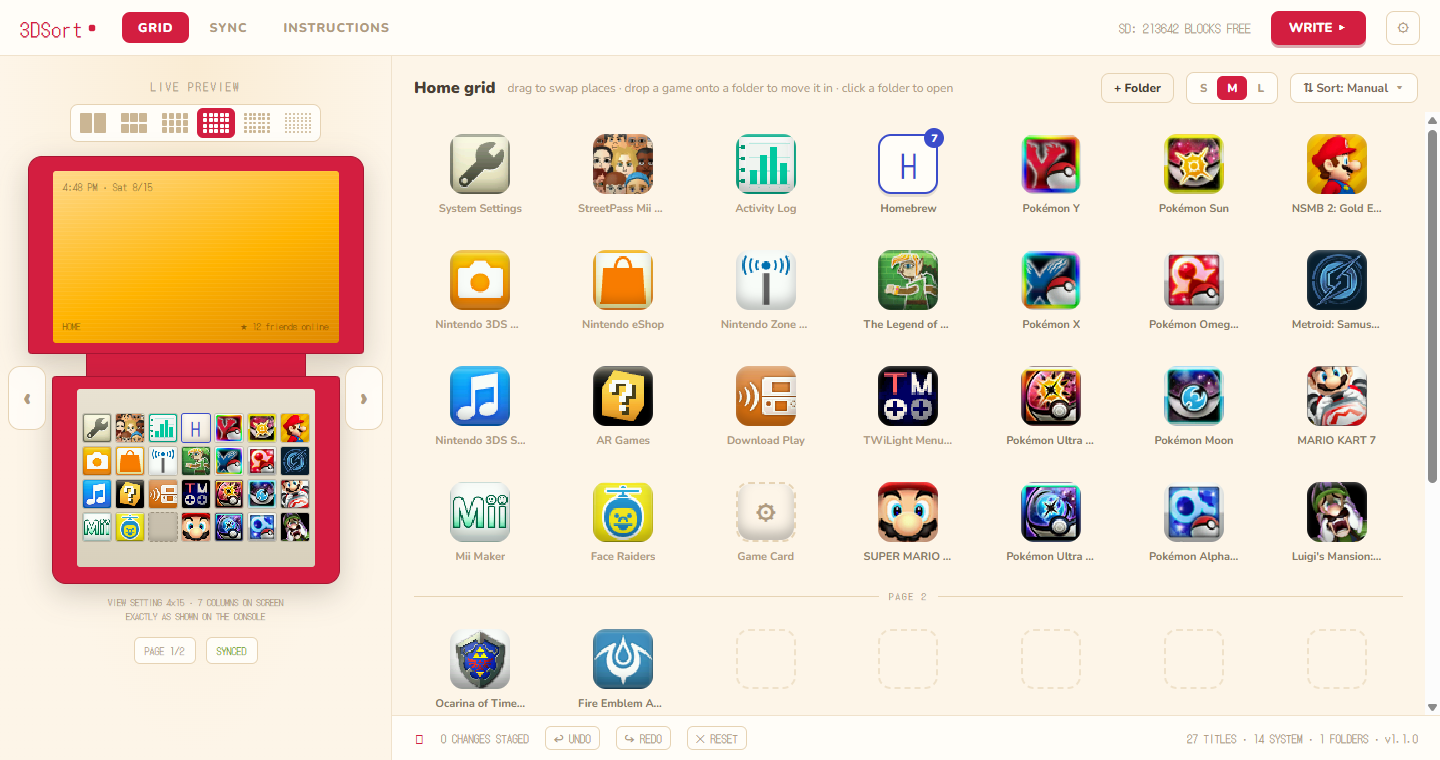
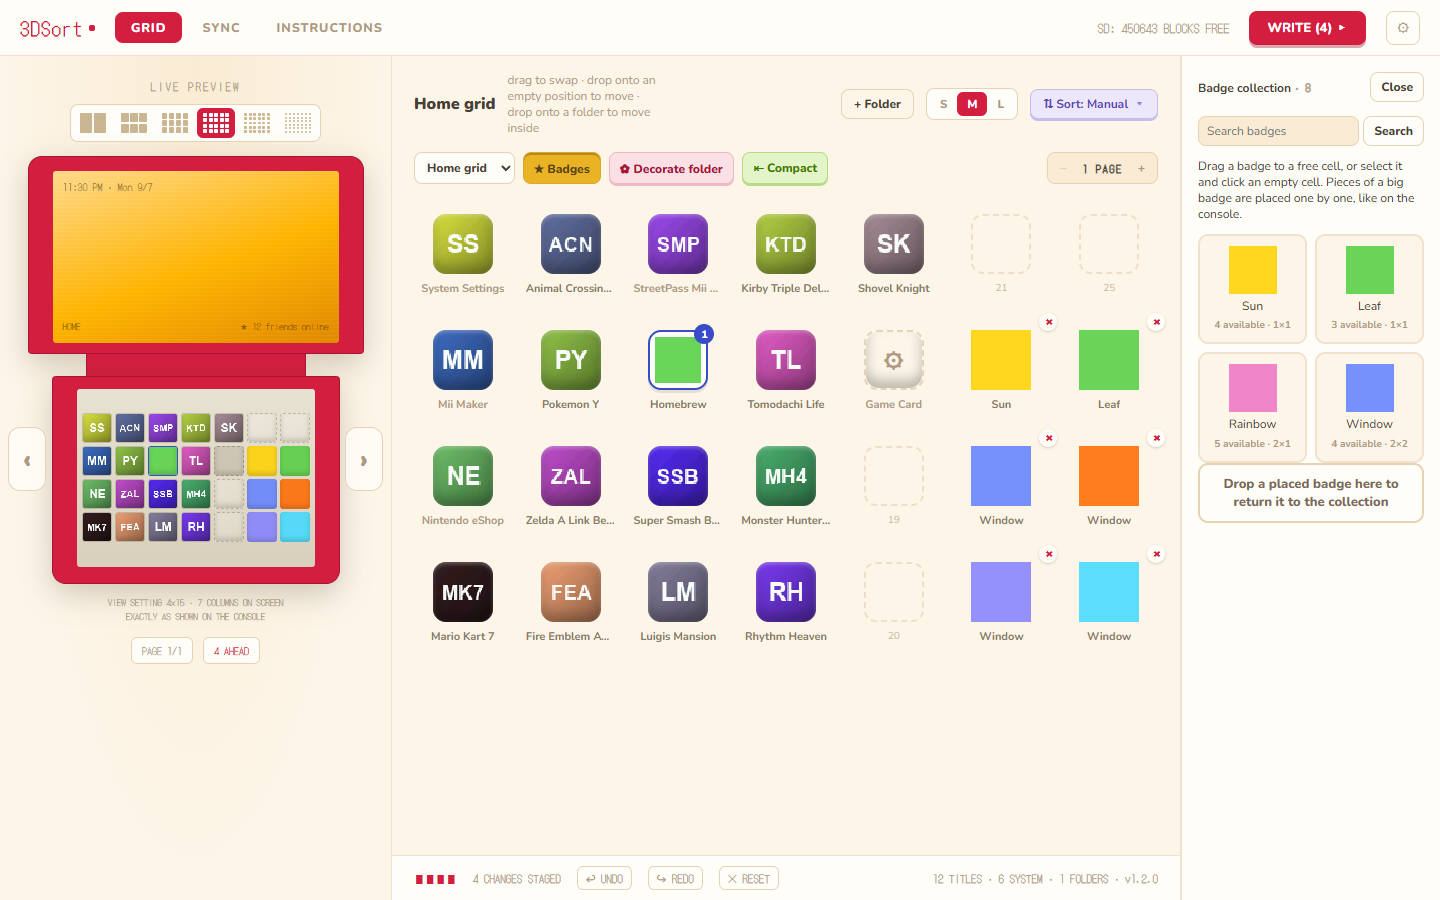
Release v1.2.0: README rewrite, badge screenshots, screenshot tool
README slimmed and updated with the v1.2.0 section (badges, exact
positions, Compact, presets by type). Screenshots regenerated from synthetic
data by tools/readme_shots.cjs (mock mode only, never console data).

Claude-Session: https://claude.ai/code/session_01MJdxLajKmncMJfD1nT24c2

diff --git a/README.md b/README.md
@@ -8,10 +8,10 @@
 
 [![Platform](https://img.shields.io/badge/platform-Windows%20%7C%20macOS%20%7C%20Linux-4a3f35?style=flat-square)](#running-from-source)
 [![Python](https://img.shields.io/badge/python-3.10%2B-3776ab?style=flat-square&logo=python&logoColor=white)](#running-from-source)
-[![Tests](https://img.shields.io/badge/tests-153%20passing-7ac70c?style=flat-square)](#tests)
+[![Tests](https://img.shields.io/badge/tests-205%20passing-7ac70c?style=flat-square)](#tests)
 [![Hardware validated](https://img.shields.io/badge/hardware-validated%20on%20a%20real%203DS-d31e40?style=flat-square)](#status)
 [![License](https://img.shields.io/badge/license-GPL--3.0-blue?style=flat-square)](LICENSE)
-[![Version](https://img.shields.io/badge/version-v1.1.0-d31e40?style=flat-square)](#status)
+[![Version](https://img.shields.io/badge/version-v1.2.0-d31e40?style=flat-square)](#status)
 
 </div>
 
@@ -22,31 +22,55 @@
 
 Organizing icons on the console itself is slow: one stylus drag at a time, page
 by page. 3DSort edits the layout directly on the SD card instead. Put the card
-in your computer, sort your games automatically by alphabetical order or release year, or manually drag things around and manage folders in a desktop app, check the live preview,
-then write the result back and boot the console.
+in your computer, drag games, folders and badges around in a desktop app with a
+live preview of the console screen, sort with one click, then write the result
+back and boot the console.
 
 **[Download the latest release](https://github.com/SalustLab/3DSort/releases/latest)**:
-a `.zip` with a single portable `.exe` for Windows, and a `.zip` with the
-`3DSort.app` bundle for Apple Silicon Macs. No installer and no Python needed.
+a portable `.exe` for Windows, a `3DSort.app` for Apple Silicon Macs and a
+`tar.gz` for Linux. No installer and no Python needed.
 
-![The GRID tab: live console preview on the left, drag-and-drop grid of real game icons on the right](docs/images/grid.png)
+![The GRID tab: live console preview, the drag-and-drop grid with games, a decorated folder and badges, and the badge collection panel](docs/images/grid.png)
 
 > [!IMPORTANT]
 > Every write takes an automatic backup first, and nothing touches the card
 > until you confirm. When you move system apps or folders, do not boot the HOME
 > menu between writing on the PC and running the inject script on the console.
 
+## New in v1.2.0: badges and exact positions
+
+- **Badges on the grid.** The collection installed on your card shows up in a
+  panel: drag a badge onto any empty cell, move it, return it to the collection,
+  or set it as a folder icon (from the Decorate button, the New folder dialog,
+  or by dropping it on the folder's big icon inside the folder). Pieces of a big
+  badge are placed one by one, exactly as the console does it.
+- **Exact positions.** Empty cells are real: moving something leaves a gap, like
+  on the console. Cells are numbered so you can match the grid to the screen.
+- **Compact** closes the gaps of the current grid, keeping the order.
+- **Sort presets** now lay the whole grid out: system apps, Game Card, folders
+  and badges first, then the games sorted A to Z, Z to A or by release date.
+- Staged changes are named ("Moved Mario Kart 7 to cell 124"), so the history in
+  SYNC reads like a log.
+
+Badges are the ones already in your collection; 3DSort does not install any.
+Since the Badge Arcade service ended, homebrew tools such as
+[GYTB](https://wiki.hacks.guide/wiki/3DS:GYTB) install custom badges on a CFW
+console. The badge file format and the full write cycle were validated on a
+real New 3DS: every edit the app writes matches what the console itself writes,
+byte for byte (details in [docs/BADGES_TESTING.md](docs/BADGES_TESTING.md)).
+
+![Decorate folder: pick a badge by its image as the icon of a folder](docs/images/badges.png)
+
 ## What it does
 
 - Swap any two tiles by dropping one onto the other: games, system apps,
-  folder tiles, even the Game Card slot
-- Move games and system apps in and out of folders
-- Create, rename, empty and delete folders
-- Sort presets (A to Z, Z to A, release date oldest or newest first)
+  folder tiles, badges, even the Game Card slot
+- Move games, system apps and badges in and out of folders
+- Create, rename, empty and delete folders; give them a badge as icon
 - Live preview that reproduces the console screen exactly, for every view
   setting from 1x60 to 6x10
-- Every change is staged in memory first, with undo, redo and reset. Nothing
-  touches the card until you hit WRITE and confirm
+- Every change is staged first, with undo, redo and reset. Nothing touches the
+  card until you hit WRITE and confirm
 - A backup of the current layout is taken automatically before every write,
   and any backup can be restored later
 - Every write also unwraps gift-boxed icons in bulk (same mechanism as
@@ -57,18 +81,20 @@ a `.zip` with a single portable `.exe` for Windows, and a `.zip` with the
 
 ![The SYNC tab: SD card status, import and backup buttons, and a restorable history of every write](docs/images/sync.png)
 
-Moving system apps and folders needs one extra step, because their layout
-lives in a NAND system save rather than on the card: dump it once with the
-generated `3DSort_dump` GodMode9 script, edit freely on the PC, then run
-`3DSort_inject` in GodMode9 after writing. The inject script verifies every
-copy with SHA-256 gates and fixes the save CMAC, and it aborts rather than
-write anything inconsistent. Without that dump, system apps simply stay
-pinned and everything else keeps working.
+Games and badges live on the SD card, so those writes are done when the app
+says so. Moving system apps and folders needs one extra step, because their
+layout lives in a NAND system save: dump it once with the generated
+`3DSort_dump` GodMode9 script, edit freely on the PC, then run `3DSort_inject`
+in GodMode9 after writing. The inject script verifies every copy with SHA-256
+gates and fixes the save CMAC, and it aborts rather than write anything
+inconsistent. Without that dump, system apps simply stay pinned and everything
+else keeps working.
 
 One rule keeps that cycle smooth: do not boot the HOME menu between writing
 and injecting. Every HOME boot touches the NAND save, so the inject script
 will refuse a stale target. If it happens, run `3DSort_dump` again and retry;
-nothing is lost.
+nothing is lost. An interrupted write (card pulled, power cut) shows up in SYNC
+with two explicit choices: complete it or restore the pre-write backup.
 
 ## What you need
 
@@ -79,10 +105,11 @@ nothing is lost.
   the app writes a `3DSort_dump` script to the card and that script dumps them
   for you, along with the HOME menu save
 
-Regions: USA is supported and tested on real hardware. CHN, EUR, KOR, JPN, TWN are supported from documented ids but have never been run on a console,
-so treat them as "it should work just fine" but remains untested. A region the app does not know refuses to dump rather
-than guessing, and every write to the console NAND is gated by checksums that
-abort on a mismatch.
+Regions: USA is tested on real hardware. JPN, EUR, CHN, KOR and TWN use the
+documented ids and should work, but have not run on a console. Always let
+`3DSort_dump` take `movable.sed` fresh from the console: a key from an old NAND
+backup will not decrypt the card after a format or system transfer, and the app
+says so instead of failing with a cryptic error.
 
 <div align="center">
 <img src="docs/images/wizard.png" alt="First-run setup: the app walks you through dumping the console data" width="720">
@@ -90,108 +117,48 @@ abort on a mismatch.
 
 The first run walks you through it: pick the SD card, run `3DSort_dump` on the
 console, press verify. Settings has a "Setup guide" entry that reopens the same
-walkthrough at any time, and the INSTRUCTIONS tab keeps the whole procedure for
-reference.
-
-![The INSTRUCTIONS tab: entering GodMode9, running the scripts, troubleshooting](docs/images/instructions.png)
-
-One warning about keys: always let `3DSort_dump` take `movable.sed` fresh from
-the console. Do not reuse one from an old NAND backup. If the console was
-formatted or system-transferred since that backup, the old key will not decrypt
-the current card. The app checks for this and says so, rather than failing with
-a cryptic error.
+walkthrough at any time, and the INSTRUCTIONS tab keeps the whole procedure.
 
 ## Running from source
 
 ```
 pip install -r requirements-dev.txt
 
-python app.py                 # native window, real SD card
-python app.py --serve         # same app in the browser at http://127.0.0.1:8347
-python app.py --serve --mock  # synthetic data, no SD or keys needed
+python app.py                          # native window, real SD card
+python app.py --serve                  # same app in the browser at http://127.0.0.1:8347
+python app.py --serve --mock --mock-badges   # synthetic data with badges, no SD or keys
 ```
 
 ### Tests
 
 ```
-python -m pytest tests -q     # 153 tests
+python -m pytest tests -q     # 205 tests
 ```
 
 The suite runs on any machine. Tests that need real console keys skip
 themselves automatically, and a guard test fails if anything ever writes to a
-real SD card.
+real SD card. `node tools/test_spatial_ui.cjs` drives the grid in a headless
+browser (development only; Playwright is not a runtime dependency).
 
-## Building the portable exe (Windows)
+## Building
 
-```
-pip install -r requirements-dev.txt
-pyinstaller 3DSort.spec
-dist\3DSort.exe --selftest    # verifies the bundled resources, exit code 0
-```
+**Windows**: `pyinstaller 3DSort.spec` produces a single portable
+`dist\3DSort.exe`; `dist\3DSort.exe --selftest` (exit code 0) verifies the
+bundled UI, fonts, icon and save3ds binary. No network access at runtime.
 
-The result is a single portable `dist\3DSort.exe` with no installer. The UI,
-the fonts, the icon and the save3ds binary are bundled, so the app needs no
-network access at runtime. The icon itself is generated: run
-`python tools/make_icon.py` to redraw `ui/3dsort.ico` after changing it.
+**macOS (Apple Silicon)**: the release `3DSort.app` zip is built by GitHub
+Actions. It is not notarized yet: right-click and pick Open on first launch, or
+run `xattr -cr 3DSort.app`. From source: Python 3.10+ and Rust, then
+`tools/build_save3ds_macos.sh` and `python -m PyInstaller 3DSort.macos.spec`.
+Cards mount under `/Volumes`; `--sd /Volumes/<card>` overrides.
 
-## macOS (Apple Silicon)
-
-The release page has a `3DSort.app` zip built by GitHub Actions. The bundle is
-not notarized yet, so on first launch right-click the app and pick Open, or
-run `xattr -cr 3DSort.app` after unzipping (same idea as the SmartScreen
-notice on Windows).
-
-To build from source instead, install Python 3.10+ and Rust, then:
-
-```
-python3 -m venv .venv
-.venv/bin/pip install -r requirements-dev.txt
-tools/build_save3ds_macos.sh                       # native save3ds helper
-.venv/bin/python -m PyInstaller 3DSort.macos.spec  # dist/3DSort.app
-dist/3DSort.app/Contents/MacOS/3DSort --selftest   # exit code 0
-```
-
-SD cards mount under `/Volumes` and are auto-detected; `--sd /Volumes/<card>`
-overrides. The v1.1.0 release `.app` was validated on macOS Tahoe 26.6.2
-against a real New 2DS XL by
-[@appleforever11](https://github.com/appleforever11): reading and importing a
-real card works end to end. The write and inject cycle has not been
-hardware-tested from a Mac yet; the checklist in
-[docs/MACOS_TESTING.md](docs/MACOS_TESTING.md) covers how to test safely.
-
-## Linux (x86_64)
-
-The release page has a `3DSort-<tag>-linux-x86_64.tar.gz` built by GitHub
-Actions on Ubuntu 24.04. It needs glibc 2.39 or newer (Ubuntu 24.04+,
-Mint 22, Fedora 40+, Debian 13) and the WebKitGTK runtime:
-
-```
-sudo apt install gir1.2-webkit2-4.1 libwebkit2gtk-4.1-0
-tar xzf 3DSort-*-linux-x86_64.tar.gz
-3DSort/3DSort
-```
-
-To run from source instead:
-
-```
-pip install -r requirements.txt
-pip install pywebview[gtk]     # or pywebview[qt]
-```
-
-pywebview needs an explicit GUI backend on Linux. For GTK on Debian or Ubuntu:
-`sudo apt install python3-gi python3-gi-cairo gir1.2-gtk-3.0 gir1.2-webkit2-4.1`.
-The folder picker falls back to tkinter in `--serve` mode only, which needs the
-distro's `python3-tk` package.
-
-The save3ds binary is Windows-only in the upstream releases, so build it once
-with Rust installed (the script is cross-platform despite the name):
-
-```
-bash tools/build_save3ds_macos.sh
-```
-
-SD card auto-detection looks under `/media/<user>`, `/run/media/<user>`, `/mnt`
-and `/Volumes`. Any other mount point can be picked in Settings.
+**Linux (x86_64)**: the release `tar.gz` is built on Ubuntu 24.04 and needs
+glibc 2.39 or newer plus WebKitGTK (`sudo apt install gir1.2-webkit2-4.1
+libwebkit2gtk-4.1-0`). From source: `pip install pywebview[gtk]` (or `[qt]`),
+the distro's GTK/WebKit and `python3-tk` packages, and a save3ds binary built
+once with `bash tools/build_save3ds_macos.sh` (cross-platform despite the
+name). Cards are looked up under `/media/<user>`, `/run/media/<user>`, `/mnt`
+and `/Volumes`; any other mount point can be picked in Settings.
 
 ## How it works
 
@@ -203,20 +170,25 @@ byte. Icons and names come from the console's own icon cache, so the grid
 shows exactly what the console shows.
 
 Folder definitions and system app positions live in `Launcher.dat`, inside a
-system save on the NAND. 3DSort edits that file too, through the same save3ds
+system save on the NAND. 3DSort edits that file through the same save3ds
 engine, but it can only reach the NAND with your help: a GodMode9 script dumps
 the save container to the card, the app edits it, and another script injects
-it back, hash-checked end to end. If the check fails the script aborts and the
-original container stays on the card for recovery.
+it back, hash-checked end to end.
+
+Badges live in a third archive on the card: a catalog of the badges you own
+and a table of 360 placements (cell, folder, or "icon of the folder at this
+cell"). 3DSort only ever rewrites that placement table and its counters; the
+artwork and the catalog stay untouched.
 
 ## Status
 
-Beta. The core is covered by 153 tests, including round trips against a copy of
-a real card, and the full cycle (write, NAND inject, restore) has been validated
-end to end on two different consoles from one region (N3DS, N3DSXL both USA). The app never writes without an automatic
-backup and an explicit confirmation. On macOS, the v1.1.0 release app was
-validated by a community contributor on macOS Tahoe 26.6.2 against a real
-New 2DS XL (read and import; writes from a Mac are still untested).
+Stable for daily use, still labeled beta. 205 tests, including round trips
+against a copy of a real card. The full cycle (write, NAND inject, restore) has
+been validated end to end on two USA New 3DS consoles, and the badge features
+on one of them. On macOS, the v1.1.0 app was validated by a community
+contributor on Tahoe 26.6.2 against a real New 2DS XL, including the write and
+inject cycle. The app never writes without an automatic backup and an explicit
+confirmation.
 
 ## License
 
@@ -229,9 +201,12 @@ carries the same license.
 - [save3ds](https://github.com/wwylele/save3ds) by wwylele handles the 3DS
   crypto and filesystem, which is the genuinely hard part
 - [3dbrew](https://www.3dbrew.org/wiki/Home_Menu) for the file format
-  documentation
+  documentation, badges included
 - [Cthulhu](https://github.com/Ryuzaki-MrL/Cthulhu) by Ryuzaki-MrL, whose
   "Unwrap all" feature revealed how the gift-wrap flags work
+- [GYTB](https://github.com/MrCheeze/GYTB) by MrCheeze and
+  [Simple Badge Injector](https://github.com/AntiMach/simple-badge-injector) by
+  AntiMach, the tools that put badges on the test console
 - [@appleforever11](https://github.com/appleforever11) contributed the
   macOS (Apple Silicon) support and validated the v1.1.0 release app on a
-  real New 2DS XL from a Mac (read and import)
+  real New 2DS XL from a Mac, including the write/inject cycle
